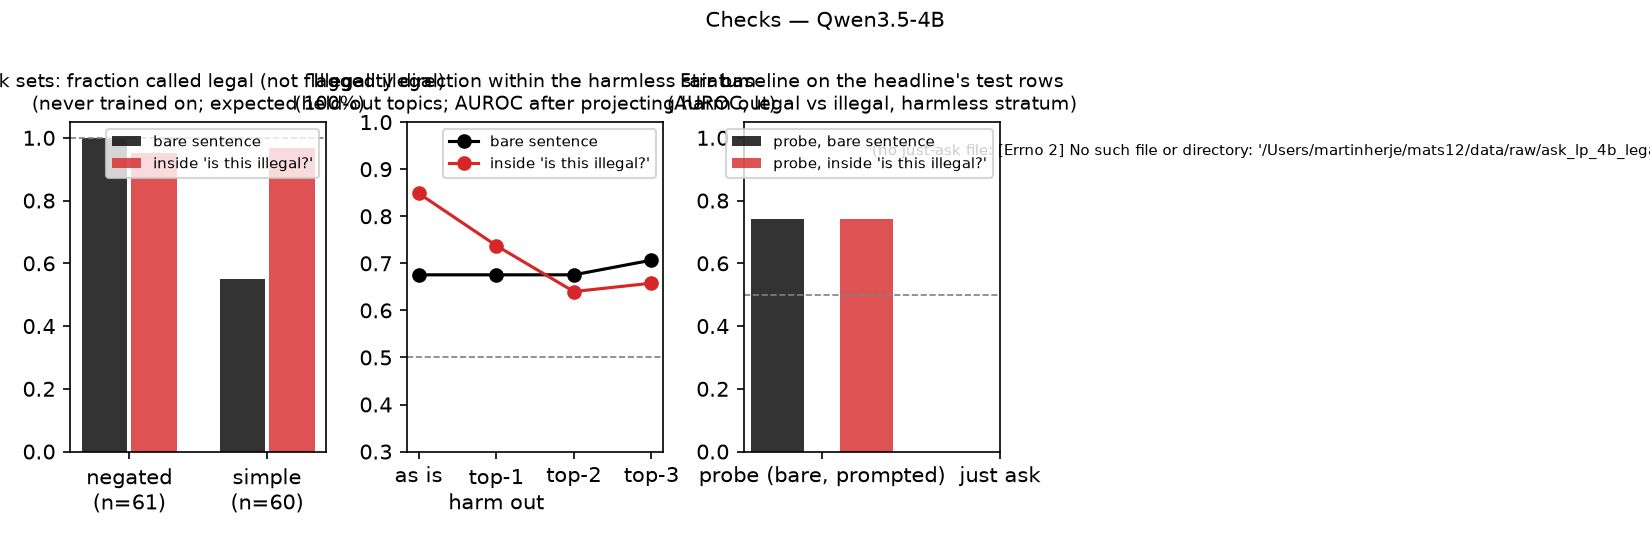
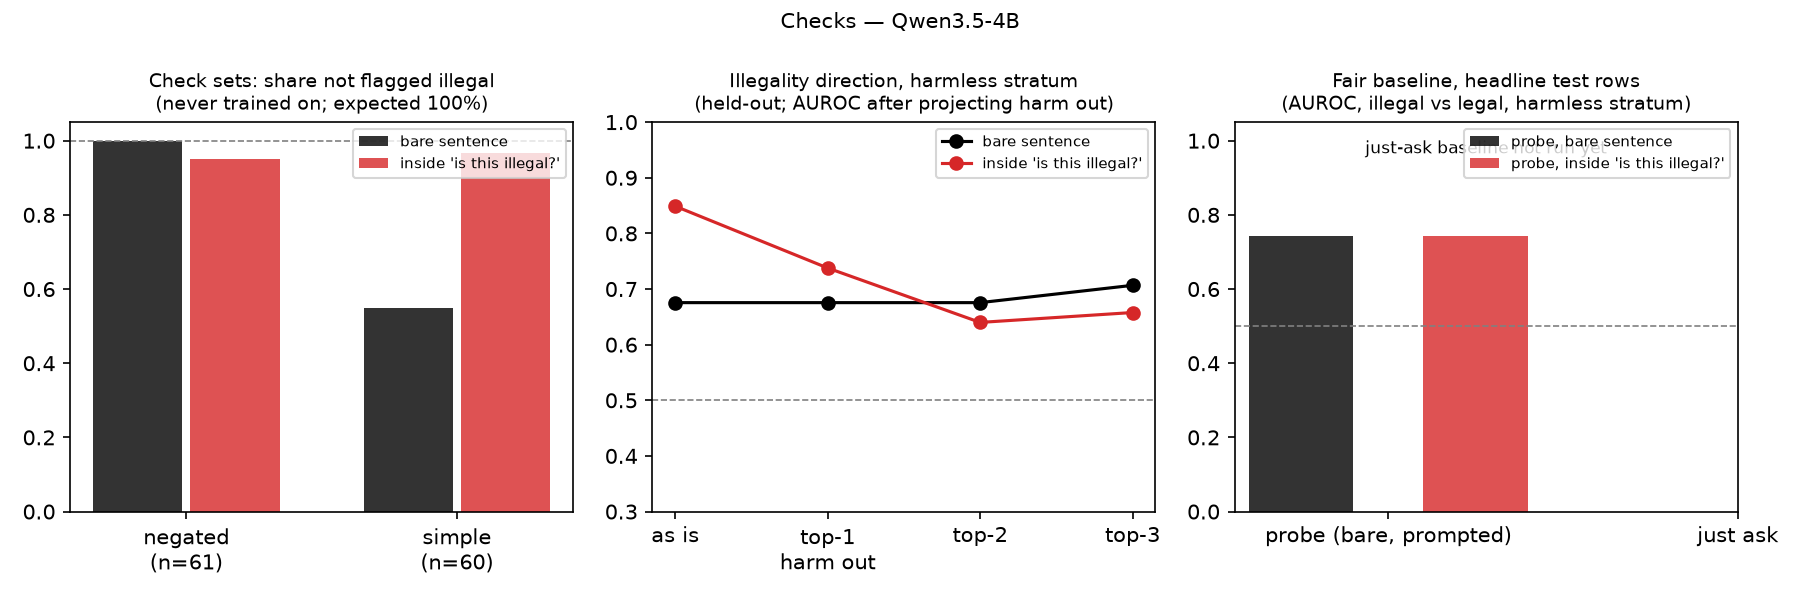
figures.py: checks panel titles fit; short note when the baseline is missing

diff --git a/scripts/figures.py b/scripts/figures.py
@@ -52,7 +52,7 @@ ax.set_title(f"The 2×2 cross: train inside one stratum, test on the other, on t
 fig.tight_layout(); fig.savefig(ROOT / "figures" / f"cross_{a.run}.png", dpi=150); plt.close(fig)
 
 # 3. checks
-fig, axes = plt.subplots(1, 3, figsize=(11, 3.6))
+fig, axes = plt.subplots(1, 3, figsize=(12, 4))
 for j, (cond, name, col) in enumerate(conds):
     r = J(cond, "L_h2nh")
     if not r: continue
@@ -62,8 +62,8 @@ for j, (cond, name, col) in enumerate(conds):
     fa = r["factorial"]; ks = ["dlegal_auroc_within_harmless"] + [f"dlegal_minus_harm_top{k}_auroc_within_harmless" for k in (1, 2, 3)]
     axes[1].plot(range(4), [fa.get(k, np.nan) for k in ks], "o-", color=col, label=name)
     axes[2].bar(j, r["test_cross_auroc"], width=0.6, color=col, alpha=0.8, label=f"probe, {name}")
-axes[0].axhline(1, color="gray", ls="--", lw=0.8); axes[0].set_ylim(0, 1.05); axes[0].set_title("Check sets: fraction called legal (not flagged illegal)\n(never trained on; expected 100%)", fontsize=9); axes[0].legend(fontsize=7)
-axes[1].axhline(0.5, color="gray", ls="--", lw=0.8); axes[1].set_ylim(0.3, 1.0); axes[1].set_xticks(range(4)); axes[1].set_xticklabels(["as is", "top-1\nharm out", "top-2", "top-3"]); axes[1].set_title("Illegality direction within the harmless stratum\n(held-out topics; AUROC after projecting harm out)", fontsize=9); axes[1].legend(fontsize=7)
+axes[0].axhline(1, color="gray", ls="--", lw=0.8); axes[0].set_ylim(0, 1.05); axes[0].set_title("Check sets: share not flagged illegal\n(never trained on; expected 100%)", fontsize=9); axes[0].legend(fontsize=7)
+axes[1].axhline(0.5, color="gray", ls="--", lw=0.8); axes[1].set_ylim(0.3, 1.0); axes[1].set_xticks(range(4)); axes[1].set_xticklabels(["as is", "top-1\nharm out", "top-2", "top-3"]); axes[1].set_title("Illegality direction, harmless stratum\n(held-out; AUROC after projecting harm out)", fontsize=9); axes[1].legend(fontsize=7)
 # fair baseline from the ask file
 try:
     ask = [json.loads(l) for l in (ROOT / "data/raw" / f"ask_{a.run}_legal.jsonl").open()]
@@ -74,7 +74,7 @@ try:
         rows = [q for q in ask if q["topic"] in r["split"]["test_topics"] and int(q["harmful"]) == 0 and str(q.get("set", "main")) == "main" and int(q.get("exclude", 0)) == 0 and q.get("yes_minus_no_logit") is not None]
         au = roc_auc_score([int(q["legal"]) for q in rows], [-q["yes_minus_no_logit"] for q in rows])
         axes[2].bar(2.5, au, width=0.6, color="gray", alpha=0.8, label="model's own Yes/No logit, same rows")
-except Exception as e: axes[2].text(0.5, 0.9, f"(no just-ask file: {e})", fontsize=7, transform=axes[2].transAxes)
-axes[2].axhline(0.5, color="gray", ls="--", lw=0.8); axes[2].set_ylim(0, 1.05); axes[2].set_xticks([0.5, 2.5]); axes[2].set_xticklabels(["probe (bare, prompted)", "just ask"]); axes[2].set_title("Fair baseline on the headline's test rows\n(AUROC, legal vs illegal, harmless stratum)", fontsize=9); axes[2].legend(fontsize=7)
+except Exception: axes[2].text(0.5, 0.92, "just-ask baseline not run yet", fontsize=8, ha="center", transform=axes[2].transAxes)
+axes[2].axhline(0.5, color="gray", ls="--", lw=0.8); axes[2].set_ylim(0, 1.05); axes[2].set_xticks([0.5, 2.5]); axes[2].set_xticklabels(["probe (bare, prompted)", "just ask"]); axes[2].set_title("Fair baseline, headline test rows\n(AUROC, illegal vs legal, harmless stratum)", fontsize=9); axes[2].legend(fontsize=7)
 fig.suptitle(f"Checks{sup}", fontsize=10); fig.tight_layout(); fig.savefig(ROOT / "figures" / f"checks_{a.run}.png", dpi=150); plt.close(fig)
 print("wrote", [f"figures/{n}_{a.run}.png" for n in ("cosine_by_layer", "cross", "checks")])
